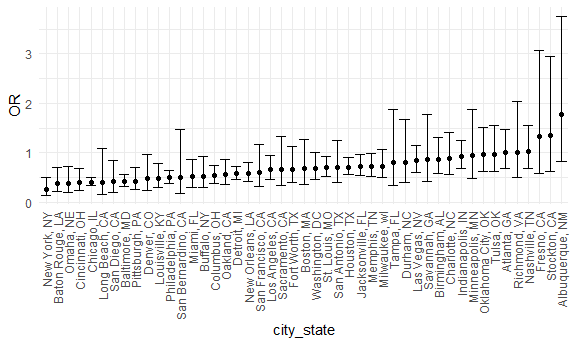
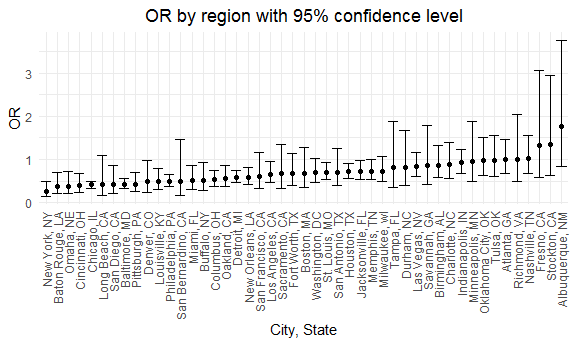
Commit Problem 2 and update Problem 1

diff --git a/p8105_hw6_wc2750.md b/p8105_hw6_wc2750.md
@@ -7,7 +7,7 @@ Weixi Chen
 
 ``` r
 homicide_df = 
-  read_csv("homicide_data/homicide-data.csv") %>%
+  read_csv("data/homicide-data.csv") %>%
   mutate(
     city_state = str_c(city, state, sep = ", "),
     resolution = case_when(
@@ -76,7 +76,190 @@ models_results_df %>%
   ggplot(aes(x = city_state, y = OR)) +
   geom_point() +
   geom_errorbar(aes(ymin = CI_lower, ymax = CI_upper)) +
+  labs(x = "City, State" , title = "OR by region with 95% confidence level") +
   theme(axis.text.x = element_text(angle = 90, vjust = 0.5, hjust = 1))
 ```
 
 <img src="p8105_hw6_wc2750_files/figure-gfm/unnamed-chunk-4-1.png" width="90%" />
+
+## Problem 2
+
+Load and clean child’s birthweight data
+
+``` r
+baby_df = 
+  read_csv("data/birthweight.csv") %>%
+  mutate(babysex = as.factor(babysex),
+         frace = as.factor(frace),
+         malform = as.factor(malform),
+         mrace = as.factor(mrace)) %>%
+  mutate(mrace = case_when(mrace == 1 ~ "White",
+                           mrace == 2 ~ "Black",
+                           mrace == 3 ~ "Asian",
+                           mrace == 4 ~ "Puerto Rican",
+                           mrace == 8 ~ "Other"),
+         babysex = case_when(babysex == 1 ~ "male",
+                             babysex == 2 ~ "female"),
+         frace = case_when(frace == 1 ~ "White",
+                           frace == 2 ~ "Black",
+                           frace == 3 ~ "Asian",
+                           frace == 4 ~ "Puerto Rican",
+                           frace == 8 ~ "Other",
+                           frace == 9 ~ "Unknown"),
+         malform = case_when(malform == 0 ~ "absent",
+                             malform == 1 ~ "present")
+         ) %>%
+  drop_na()
+```
+
+Propose a regression model for birthweight through stepwise
+
+``` r
+reg_all = lm(bwt ~ ., data = baby_df)
+step(reg_all, direction='both')
+
+reg_step = lm(bwt ~ babysex + bhead + blength + delwt + fincome + 
+    gaweeks + mheight + mrace + parity + ppwt + smoken, data = baby_df)
+
+reg_step %>%
+  broom::tidy() %>% 
+  select(term, estimate, p.value) %>%
+  knitr::kable(digits = 3)
+```
+
+``` r
+reg_1 = lm(bwt ~ babysex + bhead + blength + delwt + gaweeks + mheight + parity + ppwt + smoken, data = baby_df)
+
+summary(reg_1)
+```
+
+    ## 
+    ## Call:
+    ## lm(formula = bwt ~ babysex + bhead + blength + delwt + gaweeks + 
+    ##     mheight + parity + ppwt + smoken, data = baby_df)
+    ## 
+    ## Residuals:
+    ##      Min       1Q   Median       3Q      Max 
+    ## -1090.67  -180.43    -6.83   176.33  2495.11 
+    ## 
+    ## Coefficients:
+    ##               Estimate Std. Error t value Pr(>|t|)    
+    ## (Intercept) -6687.5367   134.0710 -49.881  < 2e-16 ***
+    ## babysexmale   -29.3662     8.6833  -3.382 0.000726 ***
+    ## bhead         136.4950     3.5146  38.837  < 2e-16 ***
+    ## blength        77.5095     2.0673  37.493  < 2e-16 ***
+    ## delwt           3.7003     0.4020   9.205  < 2e-16 ***
+    ## gaweeks        13.8986     1.4956   9.293  < 2e-16 ***
+    ## mheight         9.5975     1.7875   5.369 8.32e-08 ***
+    ## parity         99.1233    41.4750   2.390 0.016893 *  
+    ## ppwt           -2.5806     0.4390  -5.879 4.45e-09 ***
+    ## smoken         -2.3756     0.5794  -4.100 4.20e-05 ***
+    ## ---
+    ## Signif. codes:  0 '***' 0.001 '**' 0.01 '*' 0.05 '.' 0.1 ' ' 1
+    ## 
+    ## Residual standard error: 280.1 on 4332 degrees of freedom
+    ## Multiple R-squared:  0.7015, Adjusted R-squared:  0.7009 
+    ## F-statistic:  1131 on 9 and 4332 DF,  p-value: < 2.2e-16
+
+My hypothesized model, based on stepwise modeling selection and
+significant p-values smaller than 0.05, includes predictors: babysex,
+bhead, blength, delwt, gaweeks, mheight, parity, ppwt, and smoken. The
+adjusted R-squared is 0.70, indicating that a high persentage of
+variations in the birthweight can be explained by these predictors.
+
+Plot of model residuals against fitted values
+
+``` r
+baby_df %>%
+  add_residuals(reg_1) %>%
+  add_predictions(reg_1) %>%
+  ggplot(aes(x = pred, y = resid)) +
+  geom_point() +
+  labs(x = "Predictions", y = "Residuals", title = "Residuals vs Predictions")
+```
+
+<img src="p8105_hw6_wc2750_files/figure-gfm/unnamed-chunk-8-1.png" width="90%" />
+
+Based on this model diagnosis plot, we can see that majority of
+predictions are centered around residuals 0, though there is few
+outliers with low prediction and high residual, scattering on the
+upper-left corner of the plot.
+
+Compare my model to two others through cross-validation:  
+\* One using length at birth and gestational age as predictors (main
+effects only)  
+\* One using head circumference, length, sex, and all interactions
+(including the three-way interaction) between these
+
+``` r
+reg_2 = lm(bwt ~ blength + gaweeks, data = baby_df)
+
+reg_2 %>%
+  broom::tidy() %>% 
+  select(term, estimate, p.value) %>%
+  knitr::kable(digits = 3)
+```
+
+| term        |   estimate | p.value |
+| :---------- | ---------: | ------: |
+| (Intercept) | \-4347.667 |       0 |
+| blength     |    128.556 |       0 |
+| gaweeks     |     27.047 |       0 |
+
+``` r
+reg_3 = lm(bwt ~ bhead * blength * babysex, data = baby_df)
+
+reg_3 %>%
+  broom::tidy() %>% 
+  select(term, estimate, p.value) %>%
+  knitr::kable(digits = 3)
+```
+
+| term                      |   estimate | p.value |
+| :------------------------ | ---------: | ------: |
+| (Intercept)               |  \-801.949 |   0.467 |
+| bhead                     |   \-16.598 |   0.626 |
+| blength                   |   \-21.646 |   0.354 |
+| babysexmale               | \-6374.868 |   0.000 |
+| bhead:blength             |      3.324 |   0.000 |
+| bhead:babysexmale         |    198.393 |   0.000 |
+| blength:babysexmale       |    123.773 |   0.000 |
+| bhead:blength:babysexmale |    \-3.878 |   0.000 |
+
+``` r
+set.seed(1)
+cv_df = 
+  crossv_mc(baby_df, 100) %>% 
+   mutate(
+        train = map(train, as_tibble),
+        test = map(test, as_tibble)
+    )
+
+cv_df = 
+  cv_df %>% 
+  mutate(
+    model_1  = map(train, ~lm(bwt ~ babysex + bhead + blength + delwt + gaweeks + mheight + parity + ppwt + smoken, data = .x)),
+    model_2  = map(train, ~lm(bwt ~ blength + gaweeks, data = .x)),
+    model_3  = map(train, ~lm(bwt ~ bhead + blength + babysex + bhead * blength + bhead * babysex + blength * babysex + bhead * blength * babysex, data = .x))) %>% 
+  mutate(
+    rmse_1 = map2_dbl(model_1, test, ~rmse(model = .x, data = .y)),
+    rmse_2 = map2_dbl(model_2, test, ~rmse(model = .x, data = .y)),
+    rmse_3 = map2_dbl(model_3, test, ~rmse(model = .x, data = .y)))
+
+cv_df %>% 
+  select(starts_with("rmse")) %>% 
+  pivot_longer(
+    everything(),
+    names_to = "model", 
+    values_to = "rmse",
+    names_prefix = "rmse_") %>% 
+  mutate(model = fct_inorder(model)) %>% 
+  ggplot(aes(x = model, y = rmse)) + geom_violin()
+```
+
+<img src="p8105_hw6_wc2750_files/figure-gfm/unnamed-chunk-10-1.png" width="90%" />
+
+Based on the cross-validation by comparing rmse value, my proposed model
+has the lowest rmse, indictaing it is best model among these three
+models. Model 3 is also a good choice since it has relatively smaller
+number of predictors and also a small rmse.
